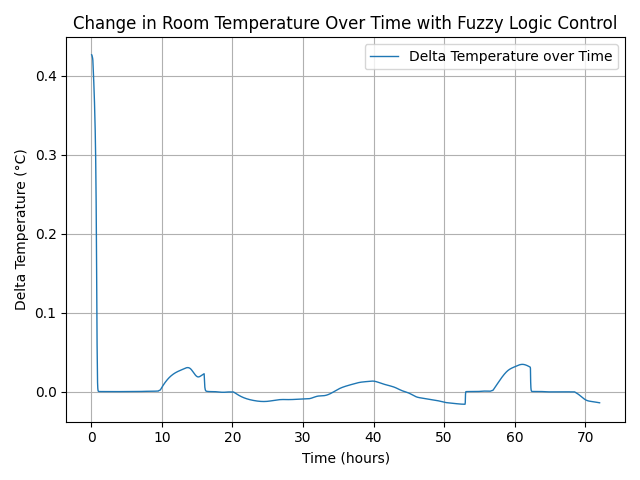
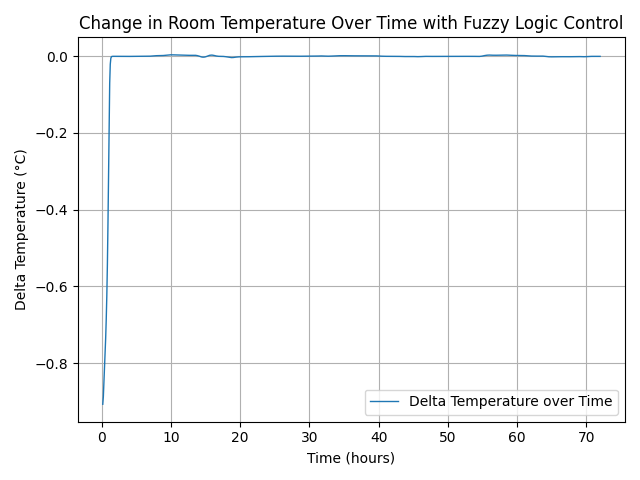
successful run with stability at 2 degrees

diff --git a/membership_functions.py b/membership_functions.py
@@ -9,10 +9,10 @@ from universes import universes
 #delta_humidity = ctrl.Antecedent(np.linspace(-100, 100, num_points), 'delta_humidity')  # -100 to 100% change
 
 temperature = ctrl.Antecedent(universes['temperature'], 'temperature')  # -50 to 50 degrees Celsius
-temperature['freezing'] = 1 - fuzz.trapmf(universes['temperature'], [-20, 0, mm.TEMP_MAX, mm.TEMP_MAX])
-temperature['cold'] = fuzz.trapmf(universes['temperature'], [-15, 5, 12, 18])
-temperature['warm'] = fuzz.trapmf(universes['temperature'], [15, 18, 27, 35])
-temperature['hot'] = fuzz.trapmf(universes['temperature'], [22, 32, mm.TEMP_MAX, mm.TEMP_MAX])
+temperature['freezing'] = 1 - fuzz.trapmf(universes['temperature'], [-20 - 20, 0 - 20, mm.TEMP_MAX, mm.TEMP_MAX])
+temperature['cold'] = fuzz.trapmf(universes['temperature'], [-15 - 20, 5 - 20, 12 - 20, 18 - 20])
+temperature['warm'] = fuzz.trapmf(universes['temperature'], [15 - 20, 18 - 20, 27 - 20, 35 - 20])
+temperature['hot'] = fuzz.trapmf(universes['temperature'], [22 - 20, 32 - 20, mm.TEMP_MAX, mm.TEMP_MAX])
 
 humidity = ctrl.Antecedent(universes['humidity'], 'humidity')      # 0 to 100%
 humidity['dry'] = 1 - fuzz.trapmf(universes['humidity'], [0, 40, mm.HUM_MAX, mm.HUM_MAX])
